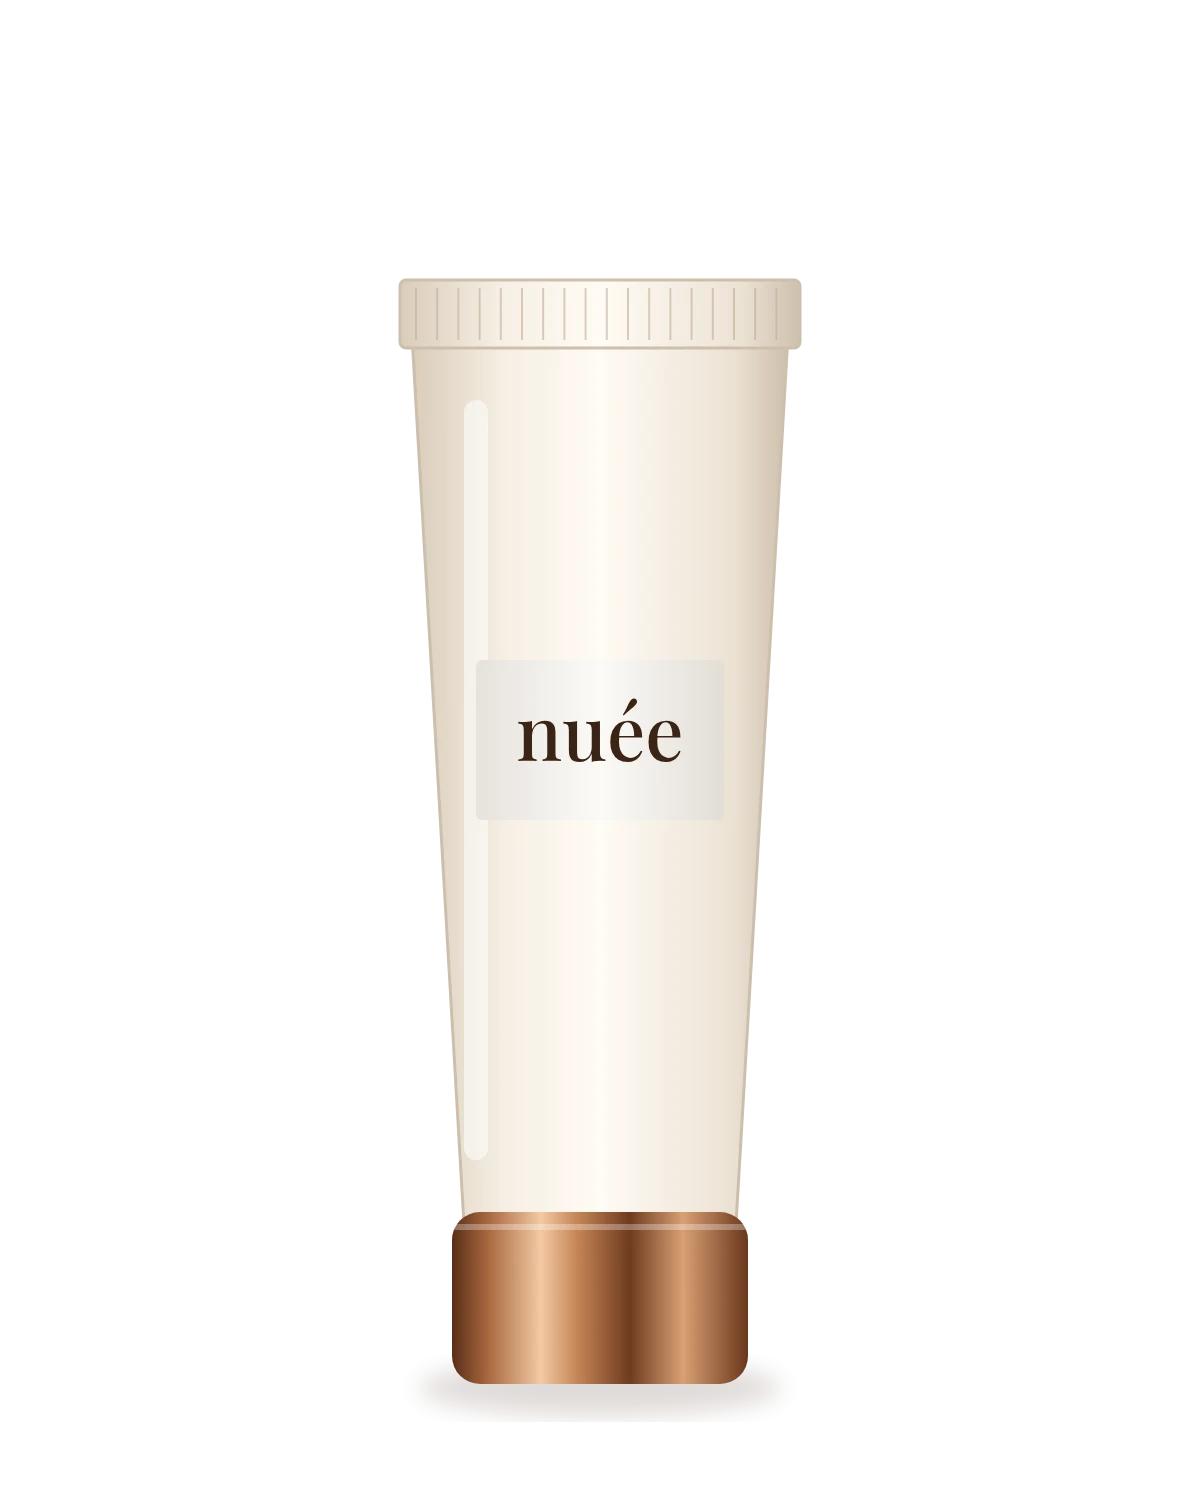
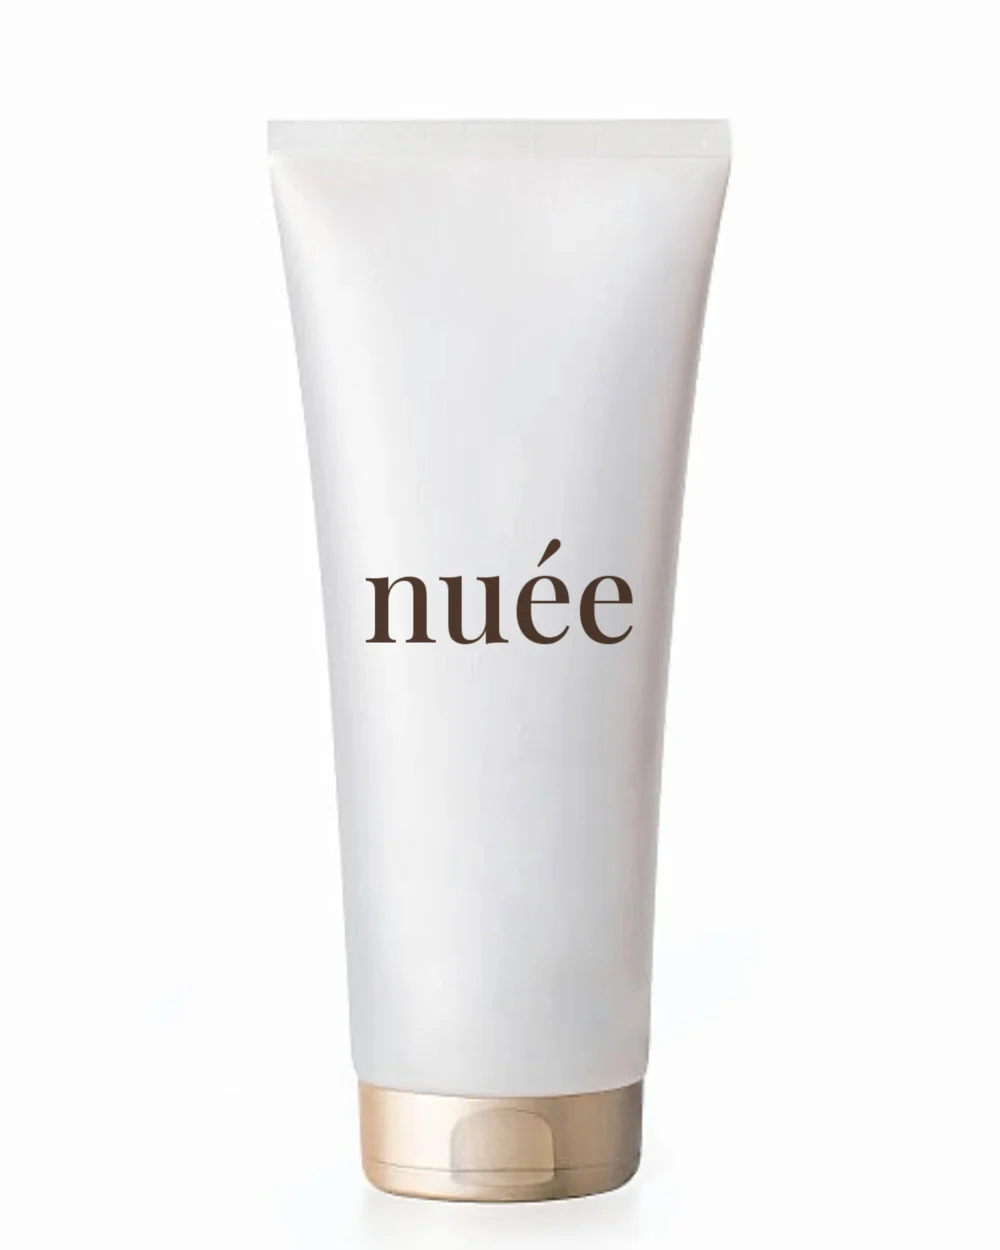
Use real product photos in the shop; replace Lip Oil with Body Lotion
Claude-Session: https://claude.ai/code/session_01GqRZiSnSzUiMjSV1Nmhbyy

diff --git a/assets/site.js b/assets/site.js
@@ -35,9 +35,9 @@ fr: {
   'p.serum.name': 'Sérum Éclat', 'p.serum.desc': 'Acide hyaluronique, niacinamide et vitamine C dans un sérum doré et léger.',
   'p.cream.name': 'Crème Nuage', 'p.cream.desc': 'Une crème hydratante douce aux céramides et au squalane.',
   'p.cleanser.name': 'Gel Nettoyant Doux', 'p.cleanser.desc': 'Un gel peu moussant qui retire maquillage et écran solaire sans tiraillement.',
-  'p.toner.name': 'Lotion Brume', 'p.toner.desc': 'Une lotion fraîche à la glycérine et au panthénol qui prépare la peau au sérum.',
+  'p.toner.name': 'Lotion Brume', 'p.toner.desc': 'Une brume tonique fraîche à la glycérine et au panthénol, à vaporiser avant le sérum.',
   'p.eye.name': 'Contour des Yeux', 'p.eye.desc': 'Une crème légère à la caféine et aux peptides pour le contour de l’œil.',
-  'p.lip.name': 'Huile à Lèvres', 'p.lip.desc': 'Une huile nourrissante au jojoba et à la vitamine E pour des lèvres douces.',
+  'p.body.name': 'Lait Corps', 'p.body.desc': 'Un lait corps fondant au beurre de karité et à la glycérine pour une peau douce.',
   'pp.back': 'Retour à la boutique', 'pp.volume': 'Contenance',
   'pp.desc': 'Un sérum léger qui associe l’acide hyaluronique pour l’hydratation, la niacinamide et la vitamine C pour un teint plus uniforme, le squalane et la vitamine E pour le confort. Il pénètre vite et s’utilise matin et soir.',
   'pp.qty': 'Quantité', 'pp.less': 'Diminuer la quantité', 'pp.more': 'Augmenter la quantité',
@@ -76,9 +76,9 @@ uk: {
   'p.serum.name': 'Сироватка «Сяйво»', 'p.serum.desc': 'Гіалуронова кислота, ніацинамід і вітамін C у легкій золотистій сироватці.',
   'p.cream.name': 'Крем «Хмара»', 'p.cream.desc': 'М’який зволожувальний крем із керамідами та скваланом.',
   'p.cleanser.name': 'М’який гель для вмивання', 'p.cleanser.desc': 'Гель із ніжною піною, що змиває макіяж і SPF без відчуття стягнутості.',
-  'p.toner.name': 'Тонік «Серпанок»', 'p.toner.desc': 'Свіжий тонік із гліцерином і пантенолом, що готує шкіру до сироватки.',
+  'p.toner.name': 'Тонік «Серпанок»', 'p.toner.desc': 'Свіжий тонік-спрей із гліцерином і пантенолом, який розпилюють перед сироваткою.',
   'p.eye.name': 'Крем для повік', 'p.eye.desc': 'Легкий крем із кофеїном і пептидами для делікатної зони навколо очей.',
-  'p.lip.name': 'Олія для губ', 'p.lip.desc': 'Живильна олія з жожобою та вітаміном E для м’яких губ.',
+  'p.body.name': 'Лосьйон для тіла', 'p.body.desc': 'Ніжний лосьйон для тіла з олією ши та гліцерином для м’якої шкіри.',
   'pp.back': 'Назад до магазину', 'pp.volume': 'Об’єм',
   'pp.desc': 'Легка сироватка, що поєднує гіалуронову кислоту для зволоження, ніацинамід і вітамін C для рівного тону, сквалан і вітамін E для комфорту шкіри. Швидко вбирається, підходить для ранку й вечора.',
   'pp.qty': 'Кількість', 'pp.less': 'Зменшити кількість', 'pp.more': 'Збільшити кількість',
@@ -117,9 +117,9 @@ en: {
   'p.serum.name': 'Radiance Serum', 'p.serum.desc': 'Hyaluronic acid, niacinamide and vitamin C in a light golden serum.',
   'p.cream.name': 'Cloud Cream', 'p.cream.desc': 'A soft moisturiser with ceramides and squalane.',
   'p.cleanser.name': 'Gentle Cleanser', 'p.cleanser.desc': 'A low-foam gel that removes makeup and sunscreen without tightness.',
-  'p.toner.name': 'Mist Toner', 'p.toner.desc': 'A fresh toner with glycerin and panthenol that preps skin for serum.',
+  'p.toner.name': 'Mist Toner', 'p.toner.desc': 'A fresh toner mist with glycerin and panthenol to spray on before serum.',
   'p.eye.name': 'Eye Cream', 'p.eye.desc': 'A light cream with caffeine and peptides for the delicate eye area.',
-  'p.lip.name': 'Lip Oil', 'p.lip.desc': 'A nourishing oil with jojoba and vitamin E for soft lips.',
+  'p.body.name': 'Body Lotion', 'p.body.desc': 'A melting body lotion with shea butter and glycerin for soft skin.',
   'pp.back': 'Back to shop', 'pp.volume': 'Volume',
   'pp.desc': 'A light serum that pairs hyaluronic acid for hydration, niacinamide and vitamin C for a more even tone, and squalane and vitamin E for comfort. It absorbs fast and suits morning and evening use.',
   'pp.qty': 'Quantity', 'pp.less': 'Decrease quantity', 'pp.more': 'Increase quantity',
@@ -134,7 +134,7 @@ const PRODUCTS = [
   { id: 'cleanser', price: 26, vol: 150, img: 'assets/products/cleanser.webp' },
   { id: 'toner', price: 28, vol: 200, img: 'assets/products/toner.webp' },
   { id: 'eye', price: 36, vol: 15, img: 'assets/products/eye.webp' },
-  { id: 'lip', price: 22, vol: 6, img: 'assets/products/lip.webp' }
+  { id: 'body', price: 34, vol: 250, img: 'assets/products/body.webp' }
 ];
 
 const store = {
@@ -145,7 +145,7 @@ const LANGS = ['fr', 'uk', 'en'], LABEL = { fr: 'FR', uk: 'UA', en: 'EN' }, LOCA
 let lang = store.get('nuee-lang');
 if (!LANGS.includes(lang)) lang = 'fr';
 const t = k => (DICT[lang][k] ?? DICT.en[k] ?? k);
-const price = n => new Intl.NumberFormat(LOCALE[lang], { style: 'currency', currency: 'EUR' }).format(n);
+const price = n => new Intl.NumberFormat(LOCALE[lang], { style: 'currency', currency: 'EUR', currencyDisplay: 'narrowSymbol' }).format(n);
 
 /* ---------- menu bar + full-screen menu ---------- */
 const root = document.documentElement;
@@ -230,7 +230,7 @@ addEventListener('storage', e => { if (e.key === 'nuee-cart') { cart = readCart(
 /* ---------- product cards ---------- */
 function renderCards(el, ids) {
   el.innerHTML = PRODUCTS.filter(p => !ids || ids.includes(p.id)).map(p => {
-    const img = `<img src="${p.img}" alt="" data-i18n-alt="p.${p.id}.name" loading="lazy" width="600" height="750">`;
+    const img = `<img src="${p.img}" alt="" data-i18n-alt="p.${p.id}.name" loading="lazy" width="1000" height="1250">`;
     const name = `<span data-i18n="p.${p.id}.name"></span>`;
     return `<article class="card">` +
       (p.link ? `<a class="card-img" href="${p.link}" tabindex="-1">${img}</a>` : `<div class="card-img">${img}</div>`) +

diff --git a/assets/site.css b/assets/site.css
@@ -101,7 +101,7 @@ html.menu-open,html.menu-open body{overflow:hidden}
 @media (max-width:560px){.grid{grid-template-columns:minmax(0,1fr);gap:40px}.card-img{aspect-ratio:1/1}}
 .card{display:flex;flex-direction:column;min-width:0}
 .card-img{display:block;background:var(--bg3);aspect-ratio:4/5;overflow:hidden;position:relative}
-.card-img img{width:100%;height:100%;object-fit:contain;display:block;transition:transform 1s cubic-bezier(.3,0,.05,1)}
+.card-img img{width:100%;height:100%;object-fit:cover;display:block;transition:transform 1s cubic-bezier(.3,0,.05,1)}
 a.card-img:hover img{transform:scale(1.04)}
 .card-body{display:flex;flex-direction:column;flex:1;padding-top:18px}
 .card h3{font-family:var(--serif);font-weight:500;font-size:22px;line-height:1.2}
@@ -117,7 +117,7 @@ a.card-img:hover img{transform:scale(1.04)}
 @media (max-width:860px){.pdp{grid-template-columns:minmax(0,1fr);gap:32px}}
 .pdp-img{background:var(--bg3);aspect-ratio:4/5;position:sticky;top:96px}
 @media (max-width:860px){.pdp-img{position:static}}
-.pdp-img img{width:100%;height:100%;object-fit:contain;display:block}
+.pdp-img img{width:100%;height:100%;object-fit:cover;display:block}
 .back{font-size:14px;color:var(--ink2);text-decoration:none;display:inline-block;padding:6px 0}
 .back:hover{color:var(--ink)}
 .pdp h1{font-family:var(--serif);font-weight:400;font-size:clamp(34px,4.4vw,54px);line-height:1.1;margin-top:14px}

diff --git a/product.html b/product.html
@@ -15,7 +15,7 @@
 <main>
   <div class="wrap">
     <div class="pdp">
-      <div class="pdp-img"><img src="assets/products/serum.webp" alt="" data-i18n-alt="p.serum.name" width="1200" height="1500"></div>
+      <div class="pdp-img"><img src="assets/products/serum.webp" alt="" data-i18n-alt="p.serum.name" width="1000" height="1250"></div>
       <div class="pdp-info">
         <a class="back" href="shop.html">← <span data-i18n="pp.back"></span></a>
         <h1 data-i18n="p.serum.name">Sérum Éclat</h1>
